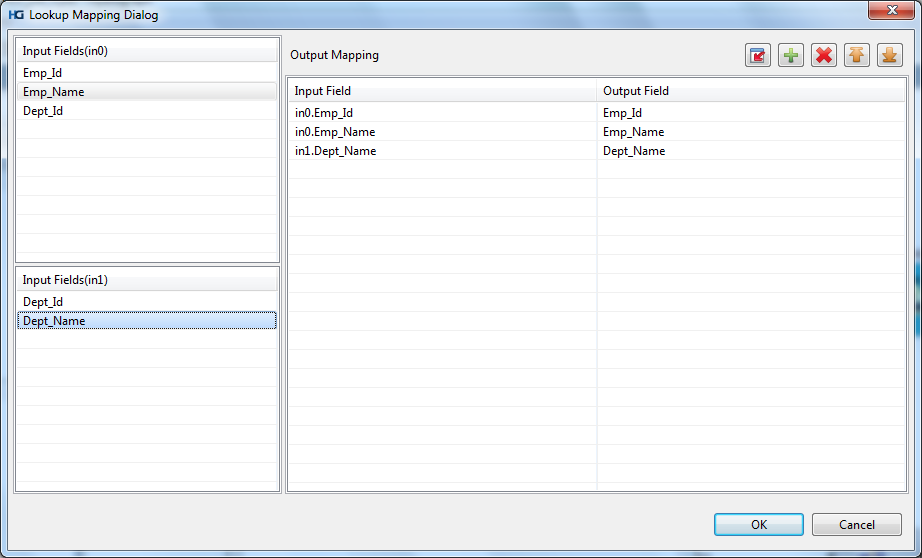
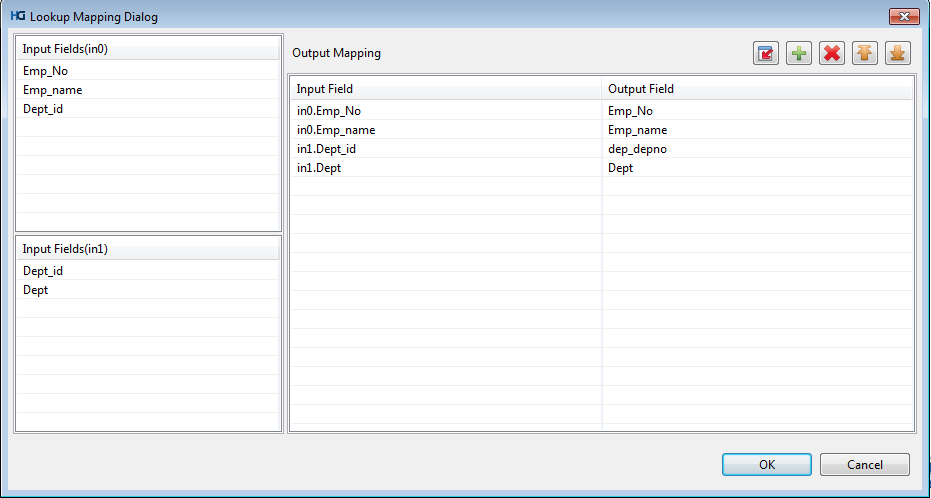
lookup and join help content changes

Changed region(s): [[0.0, 0.0, 1.0, 1.0]]

diff --git a/hydrograph.ui/hydrograph.ui.help/html/Components/Lookup_Mapping_View.html b/hydrograph.ui/hydrograph.ui.help/html/Components/Lookup_Mapping_View.html
@@ -18,13 +18,13 @@
 </head>
 <body>
 <p><span class="header-1">Lookup Mapping View</span></p>
-<p><span><b>Mapping view</b> &nbsp;&nbsp;for the Lookup component can be viewed by clicking on the Edit button near the Lookup property on General tab. Input ports along with the input fields arriving from each port is visible at the extreme left of the grid. In the center users can view the Mapping grid containing empty columns for source fields and mapped fields. Copy of option is not available for the Lookup component.</span></p>
+<p><span><b>Mapping view</b> &nbsp;for the Lookup component can be viewed by clicking on the Edit button near the Lookup property on General tab. Input ports along with the input fields arriving from each port is visible at the extreme left of the grid.In the center users can view the Mapping grid containing empty columns for source fields and mapped fields. Copy of option is not available for the Lookup component.</span></p>
 
 <p><img alt="" src="../images/Lkp_Mapping_view1.png" /></p>
 
-<p><span>User can drag and drop single or multiple fields in the mapping grid. Those fields that are passed as is in the output are Passthrough fields. Whereas, fields renamed in the output are Map fields or in simple sense aliases for the corresponding input field. In the below example, all fields except 'dept' are passed as Passthrough fields. 'dept' is passed as a Map field. Here, the Copy of option is 'None'.</span></p>
+<p><span>User can drag and drop single or multiple fields in the mapping grid. Those fields that are passed as is in the output are Passthrough fields. Whereas, fields renamed in the output are Map fields or in simple sense aliases for the corresponding input field. In the below example, all fields except 'dept_id' are passed as Passthrough fields. 'dep_depno' is passed as a Map field. Here, the Copy of option is 'None'.</span></p>
 <br>
-<p><img alt="" src="../images/Lkp_Mapping_view2.png" /></p>
+<p><img alt="" src="../images/Lkp_Mapping_View.png" /></p>
 
 <p><span>Output fields are visible in the schema grid along with their specified datatypes.</span></p>
 <br>

diff --git a/hydrograph.ui/hydrograph.ui.help/html/Components/Join_Mapping_View.html b/hydrograph.ui/hydrograph.ui.help/html/Components/Join_Mapping_View.html
@@ -22,7 +22,7 @@
 
 <p><img alt="" src="../images/Join_Mapping_View1.png" /></p>
 
-<p><span>User can drag and drop single or multiple fields in the mapping grid. Those fields that are passed as is in the output are Passthrough fields. Whereas, fields renamed in the output are Map fields or in simple sense aliases for the corresponding input field. In the below example, all fields except 'dep_depno' are passed as Passthrough fields. 'dep_depno' is passed as a Map field. Here, the Copy of option is 'None'.</span></p>
+<p><span>User can drag and drop single or multiple fields in the mapping grid. Those fields that are passed as is in the output are Passthrough fields. Whereas, fields renamed in the output are Map fields or in simple sense aliases for the corresponding input field. In the below example, all fields except 'Dept_id' are passed as Passthrough fields. 'Dept_No' is passed as a Map field. Here, the Copy of option is 'None'.</span></p>
 <br>
 <p><img alt="" src="../images/Join_Mapping_View2.png" /></p>
 

diff --git a/hydrograph.ui/hydrograph.ui.help/html/Components/Lookup_Properties.html b/hydrograph.ui/hydrograph.ui.help/html/Components/Lookup_Properties.html
@@ -41,7 +41,7 @@
 <p><span class="header-2">Configuration</span></p>
 
 <ul>
-	<li><a name="lookup_config"></a><span><b>Lookup Configuration</b> -  Edit opens a grid that accepts Driver and Lookup keys for each input port. Radio buttons have been provided to specify driver and lookup ports. By default "IN1" is the Lookup port. User can change this a per the input port connected to the Lookup file </span></p></li>
+	<li><a name="lookup_config"></a><span><b>Lookup Configuration</b> -  Edit opens a grid that accepts Driver and Lookup keys for each input port. Radio buttons have been provided to specify driver and lookup ports. By default "IN1" is the Lookup port. User can change this as per the input port connected to the Lookup file </span></p></li>
 </ul>
 	<p><img alt="" src="../images/Lkp_Configuration.png" /></p>
     <p><img alt="" src="../images/Lkp_Configuration_for_Lookup_input.png" /></p>  
